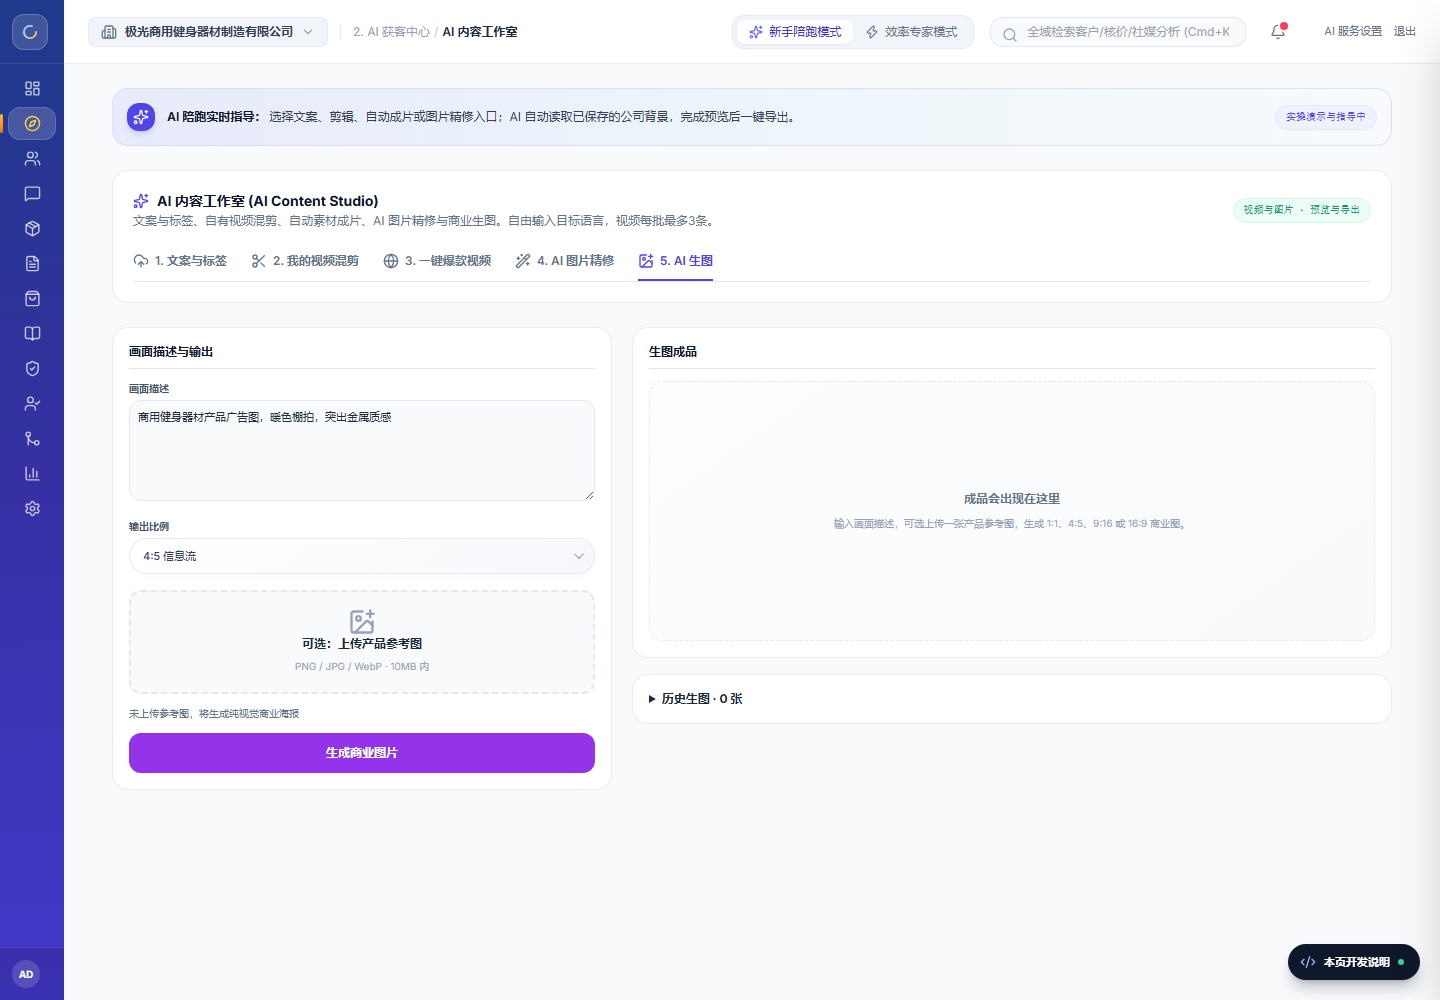
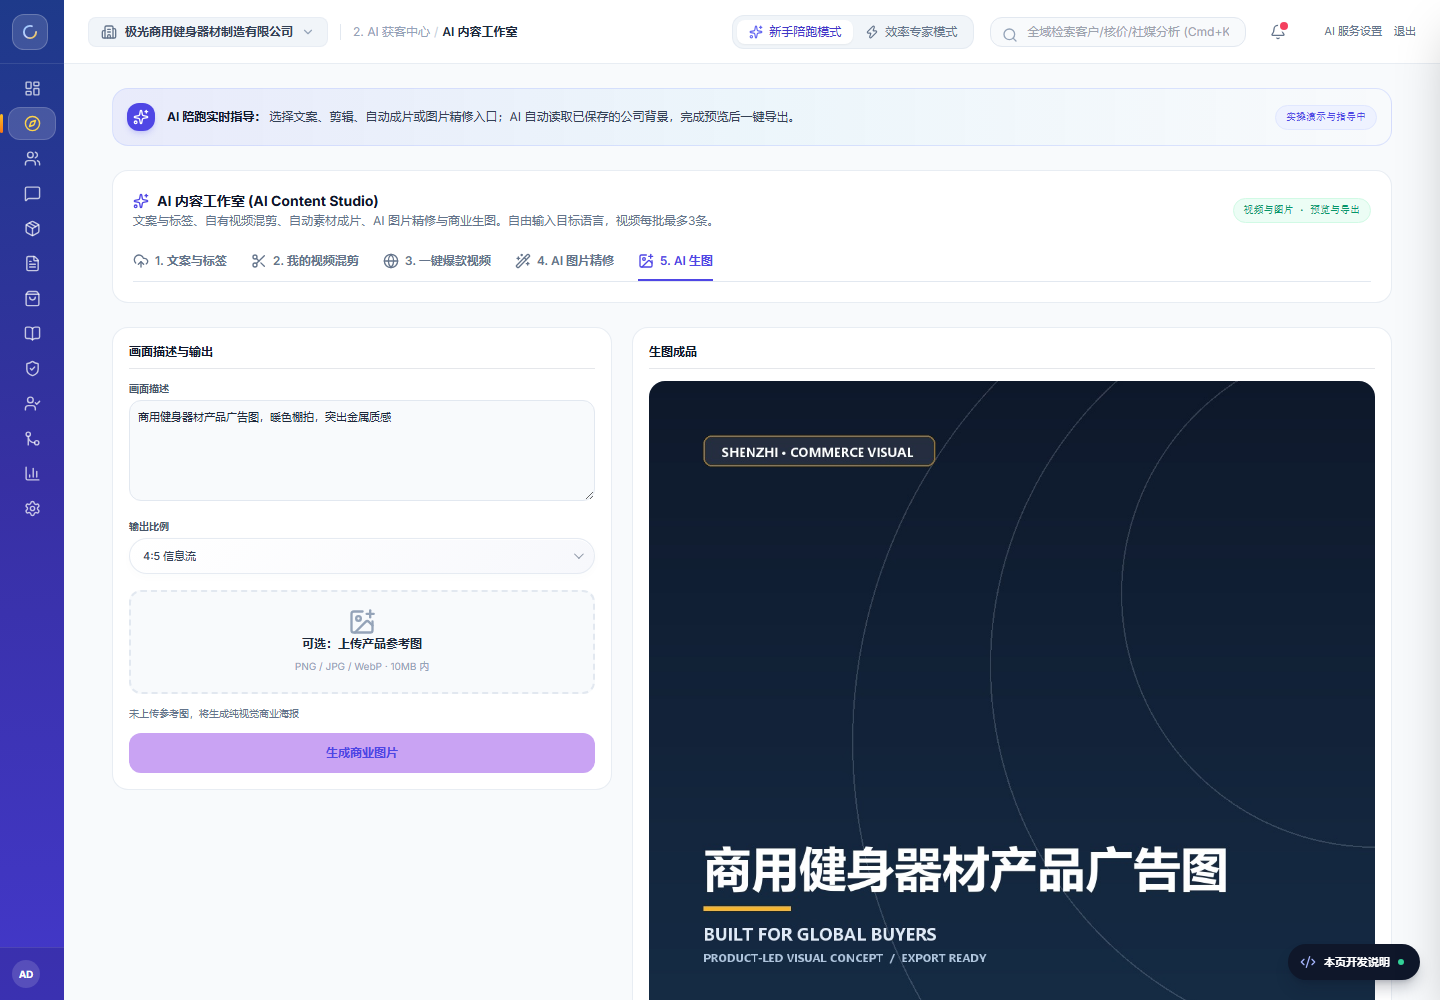
update TradePartner feature record and screenshots

diff --git a/tradepartner.html b/tradepartner.html
@@ -7,7 +7,7 @@
 :root{--ink:#142033;--muted:#637083;--blue:#3556d8;--gold:#c78b2b;--paper:#f5f7fb;--line:#e3e8f0}.wrap{max-width:1100px;margin:auto;padding:40px 28px 70px}.hero{padding:48px;border-radius:28px;color:white;background:linear-gradient(135deg,#101a2f,#17366a 60%,#2447cb);box-shadow:0 20px 60px #1728522b}.eyebrow{font-size:11px;letter-spacing:2.5px; color:#f6c86f}.hero h1{font-size:38px;line-height:1.15;margin:16px 0 12px}.hero p{max-width:720px;color:#cbd8ef;line-height:1.8}.return{color:#dbe5ff;text-decoration:none;font-size:12px}.grid{display:grid;grid-template-columns:repeat(2,minmax(0,1fr));gap:18px;margin-top:24px}.card{background:white;border:1px solid var(--line);border-radius:20px;padding:24px;box-shadow:0 8px 30px #1b2c4810}.card h2{font-size:16px;margin:0 0 12px}.card p,.card li{color:var(--muted);line-height:1.8;font-size:13px}.card ul{padding-left:18px}.metrics{display:grid;grid-template-columns:repeat(4,1fr);gap:12px;margin-top:20px}.metric{padding:16px;background:#ffffff12;border:1px solid #ffffff20;border-radius:14px}.metric b{display:block;font-size:20px}.metric span{font-size:10px;color:#cbd8ef}.shots{display:grid;gap:16px;margin-top:24px}.shot img{width:100%;border-radius:14px;border:1px solid var(--line);display:block}.tag{display:inline-block;font-size:10px;padding:4px 8px;border-radius:99px;background:#edf1fa;color:#3556d8;margin:2px 4px 2px 0}.footer{text-align:center;color:#8b97a8;font-size:11px;margin-top:32px}@media(max-width:760px){.hero{padding:30px}.hero h1{font-size:29px}.grid{grid-template-columns:1fr}.metrics{grid-template-columns:1fr 1fr}.wrap{padding:18px}}
 </style></head><body style="margin:0;background:var(--paper);color:var(--ink);font:14px/1.7 -apple-system,'Segoe UI','Microsoft YaHei',sans-serif"><main class="wrap">
 <a class="return" href="index.html">← 返回个人主页</a>
-<section class="hero"><div class="eyebrow">INDEPENDENT FULL-STACK CASE STUDY</div><h1>AI 外贸业务伙伴</h1><p>把外贸团队的客户沟通、内容生产、知识库、线索分配与获客分析放进一套本地优先的工作台。工程重点不是展示一个演示页面，而是让真实浏览器会话、后台任务、数据权限与可核查的 AI 流程协同工作。</p><div class="metrics"><div class="metric"><b>6</b><span>业务与内容核心模块</span></div><div class="metric"><b>3</b><span>内容工作流 + 图片生成</span></div><div class="metric"><b>2</b><span>管理员 / 业务员权限层</span></div><div class="metric"><b>52</b><span>当前回归测试</span></div></div></section>
+<section class="hero"><div class="eyebrow">INDEPENDENT FULL-STACK CASE STUDY</div><h1>AI 外贸业务伙伴</h1><p>把外贸团队的客户沟通、内容生产、知识库、线索分配与获客分析放进一套本地优先的工作台。工程重点不是展示一个演示页面，而是让真实浏览器会话、后台任务、数据权限与可核查的 AI 流程协同工作。</p><div class="metrics"><div class="metric"><b>6</b><span>业务与内容核心模块</span></div><div class="metric"><b>3</b><span>内容工作流 + 图片生成</span></div><div class="metric"><b>2</b><span>管理员 / 业务员权限层</span></div><div class="metric"><b>280</b><span>Python 回归测试</span></div></div></section>
 <div class="grid">
 <section class="card"><h2>AI 内容生产</h2><ul><li>已有视频生成标题、简介和多语种标签</li><li>自有视频智能混剪、字幕、配音与背景音乐</li><li>产品描述驱动自动检索素材、生成成片</li><li>AI 商业生图：比例、产品参考图、远程模型 / 本地合成双路径</li><li>历史成品默认折叠，避免工作区堆积</li></ul><span class="tag">FFmpeg</span><span class="tag">Whisper / TTS</span><span class="tag">Pillow</span></section>
 <section class="card"><h2>统一沟通中心</h2><ul><li>WhatsApp、Instagram、Messenger、Facebook 评论等渠道分栏</li><li>私信与评论业务分离，评论不混入私信队列</li><li>国家、电话、隐藏号码与星标状态展示</li><li>AI 采购意向评分、客户原文证据、知识库引用</li><li>草稿必须人工确认；平台回执后才显示发送成功</li></ul><span class="tag">Manifest V3</span><span class="tag">Browser Session</span><span class="tag">WebSocket</span></section>
@@ -15,5 +15,5 @@
 <section class="card"><h2>可信 AI 与背调</h2><ul><li>基于已保存客户档案和官网发起公开检索</li><li>官网、企业检索、公开贸易线索区分来源</li><li>未接入海关库时不虚构进口额、涉诉或企业规模</li><li>知识库引用逐字核对后再呈现</li><li>演示数据和真实账号数据分别标记</li></ul><span class="tag">RAG</span><span class="tag">Structured JSON</span><span class="tag">Evidence First</span></section>
 </div>
 <section class="card" style="margin-top:18px"><h2>工程闭环</h2><p>后端使用 FastAPI 与 SQLite 管理会话、账号、任务、知识、回执与权限；前端以原生 JavaScript 保持轻量，并由浏览器扩展补齐社媒会话链路；视频与音频流水线使用本地任务队列、FFmpeg 和语音模型。管理员端汇总团队指标与客户归属，业务员端只看自己的客户、会话与任务。</p><p>本版本的 WhatsApp 测试完成了真实消息发送并取得平台消息编号；团队账号隔离、线索分配、任务指派与认领、知识发放、图片生成均经过自动化回归。</p></section>
-<div class="shots"><figure class="shot"><img src="assets/tradepartner-communication.png" alt="统一沟通中心"><figcaption>统一沟通中心：三栏工作区、国家信息与知识引用</figcaption></figure><figure class="shot"><img src="assets/tradepartner-tasks.png" alt="团队任务中心"><figcaption>管理员任务指派与团队状态</figcaption></figure><figure class="shot"><img src="assets/tradepartner-imagegen.png" alt="AI 生图"><figcaption>AI 商业生图与可折叠历史</figcaption></figure></div>
+<div class="shots"><figure class="shot"><img src="assets/tradepartner-communication.png" alt="统一沟通中心"><figcaption>统一沟通中心：三栏工作区、国家信息与知识引用</figcaption></figure><figure class="shot"><img src="assets/tradepartner-customers.png" alt="公司与客户归属"><figcaption>公司全部客户：国家筛选、归属业务员、时间排序与管理员指派</figcaption></figure><figure class="shot"><img src="assets/tradepartner-tasks.png" alt="团队任务中心"><figcaption>管理员任务指派与团队状态</figcaption></figure><figure class="shot"><img src="assets/tradepartner-imagegen.png" alt="AI 生图"><figcaption>AI 商业生图与可折叠历史</figcaption></figure></div>
 <div class="footer">AI 外贸业务伙伴 · 项目档案 · 不含密钥、Cookie 或客户隐私数据</div></main></body></html>

diff --git a/PROJECT_TRADEPARTNER.md b/PROJECT_TRADEPARTNER.md
@@ -67,7 +67,7 @@
 - WhatsApp 已通过平台向测试联系人真实发送消息，并收到 WhatsApp 消息编号回执。
 - WhatsApp 成功读取真实会话与入站消息。
 - 团队账号创建、角色隔离、客户/线索跨员工分配、自动分配、任务创建、任务池认领与知识库分发均有自动化测试。
-- 当前版本的团队、业务与图片生成相关回归测试共 52 项通过。
+- 当前版本 Python 全量回归 280 项、62 个子测试通过；连接器方向另有 44 项隔离测试。
 - 外部平台账号授权、网络环境、代理商图像模型可用性会影响部分真实功能；系统会在未验证时显示待登录、待连接或本机合成，不伪造真实平台送达。
 
 ## 项目地址
